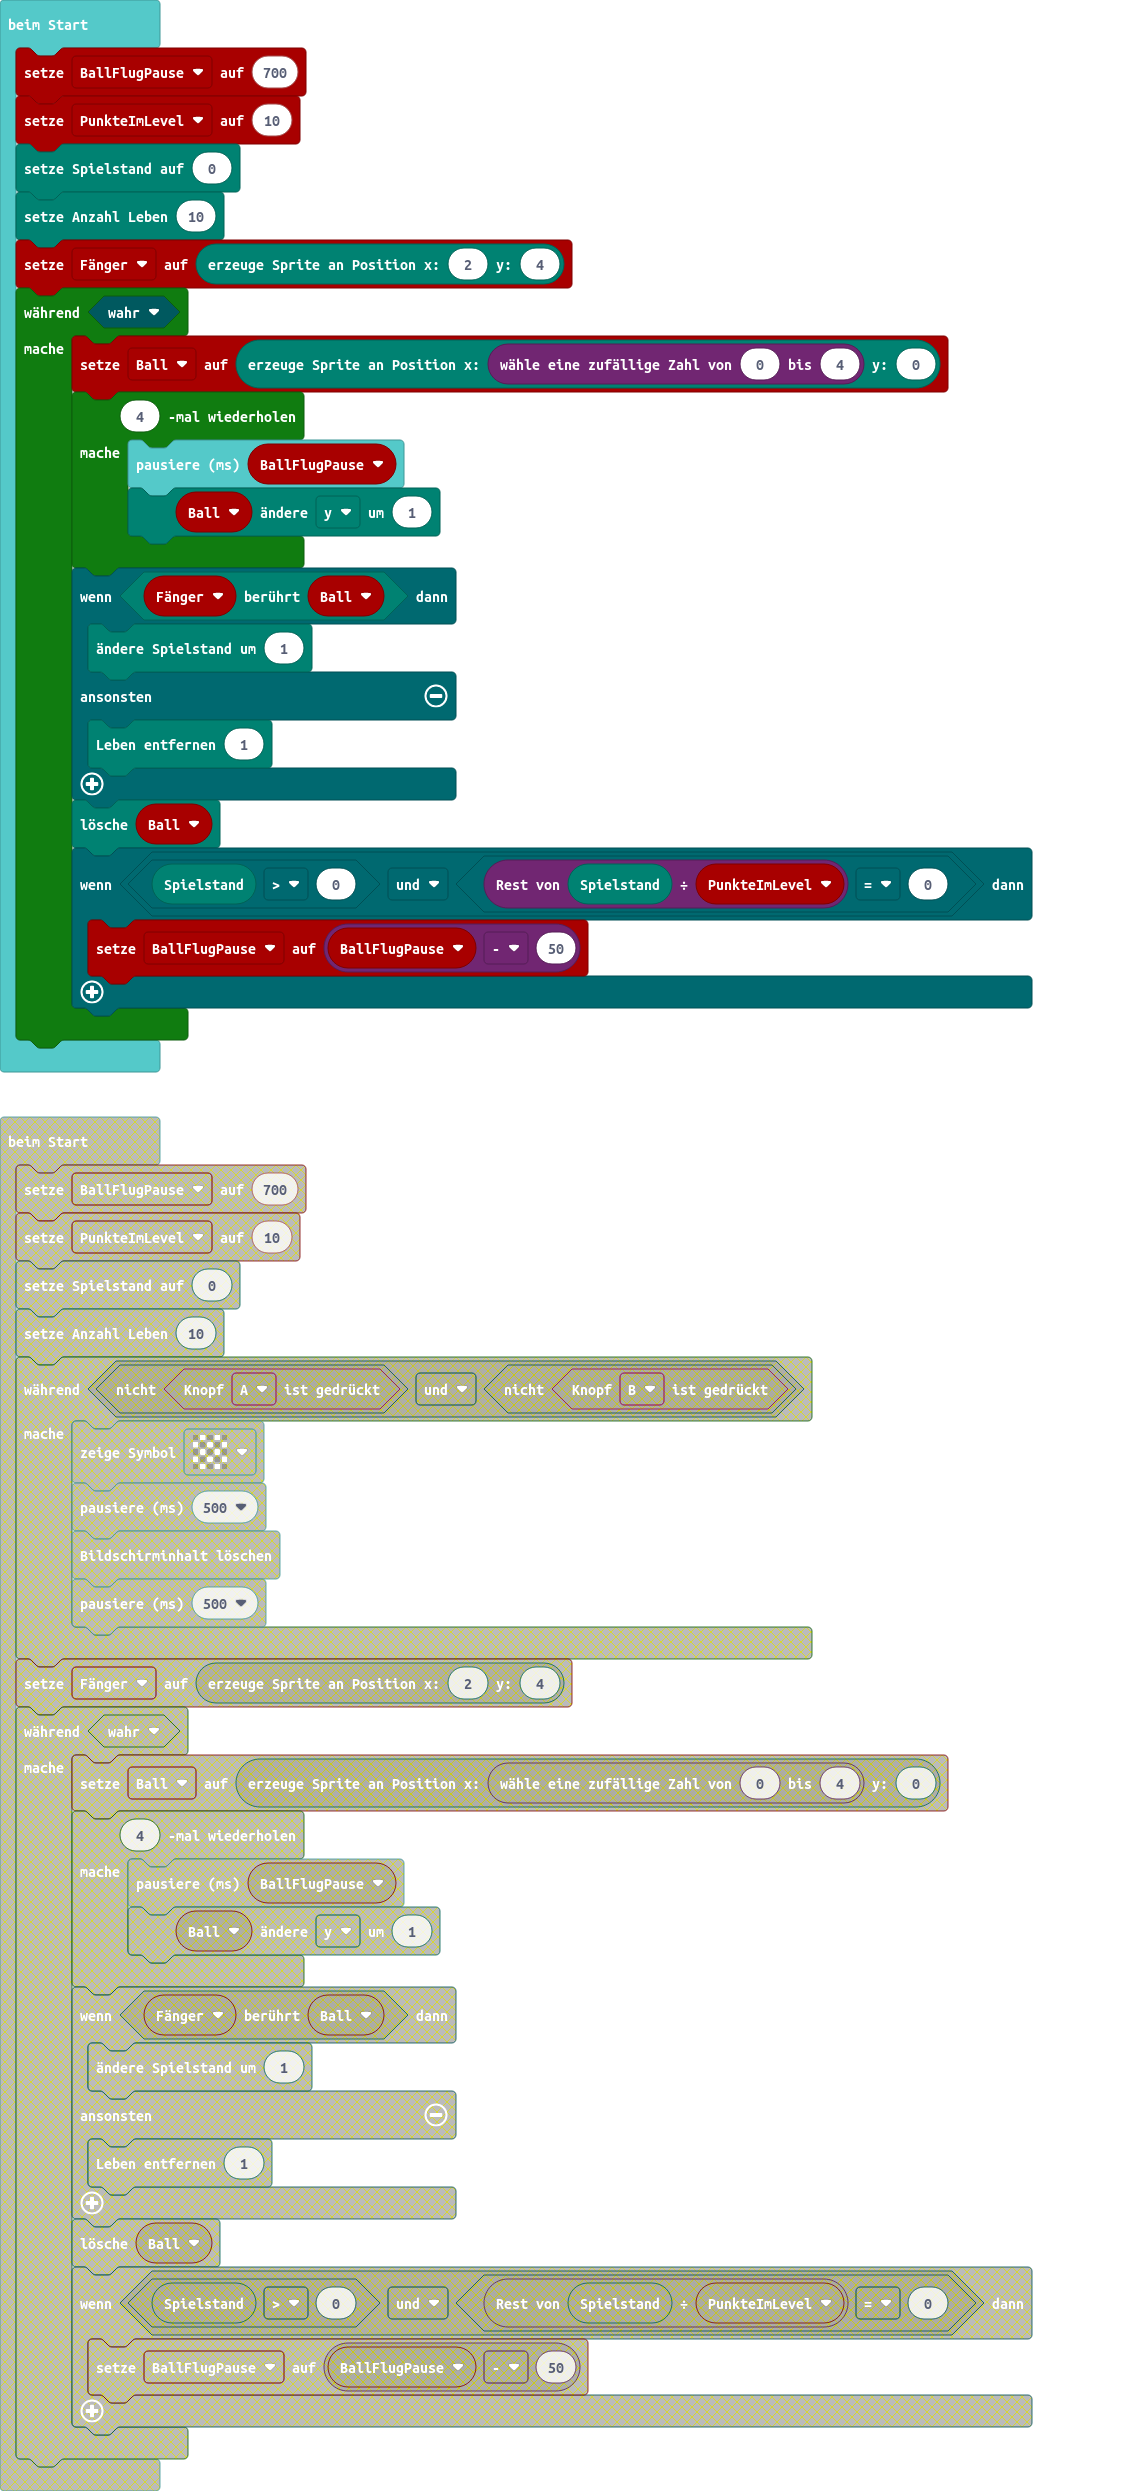
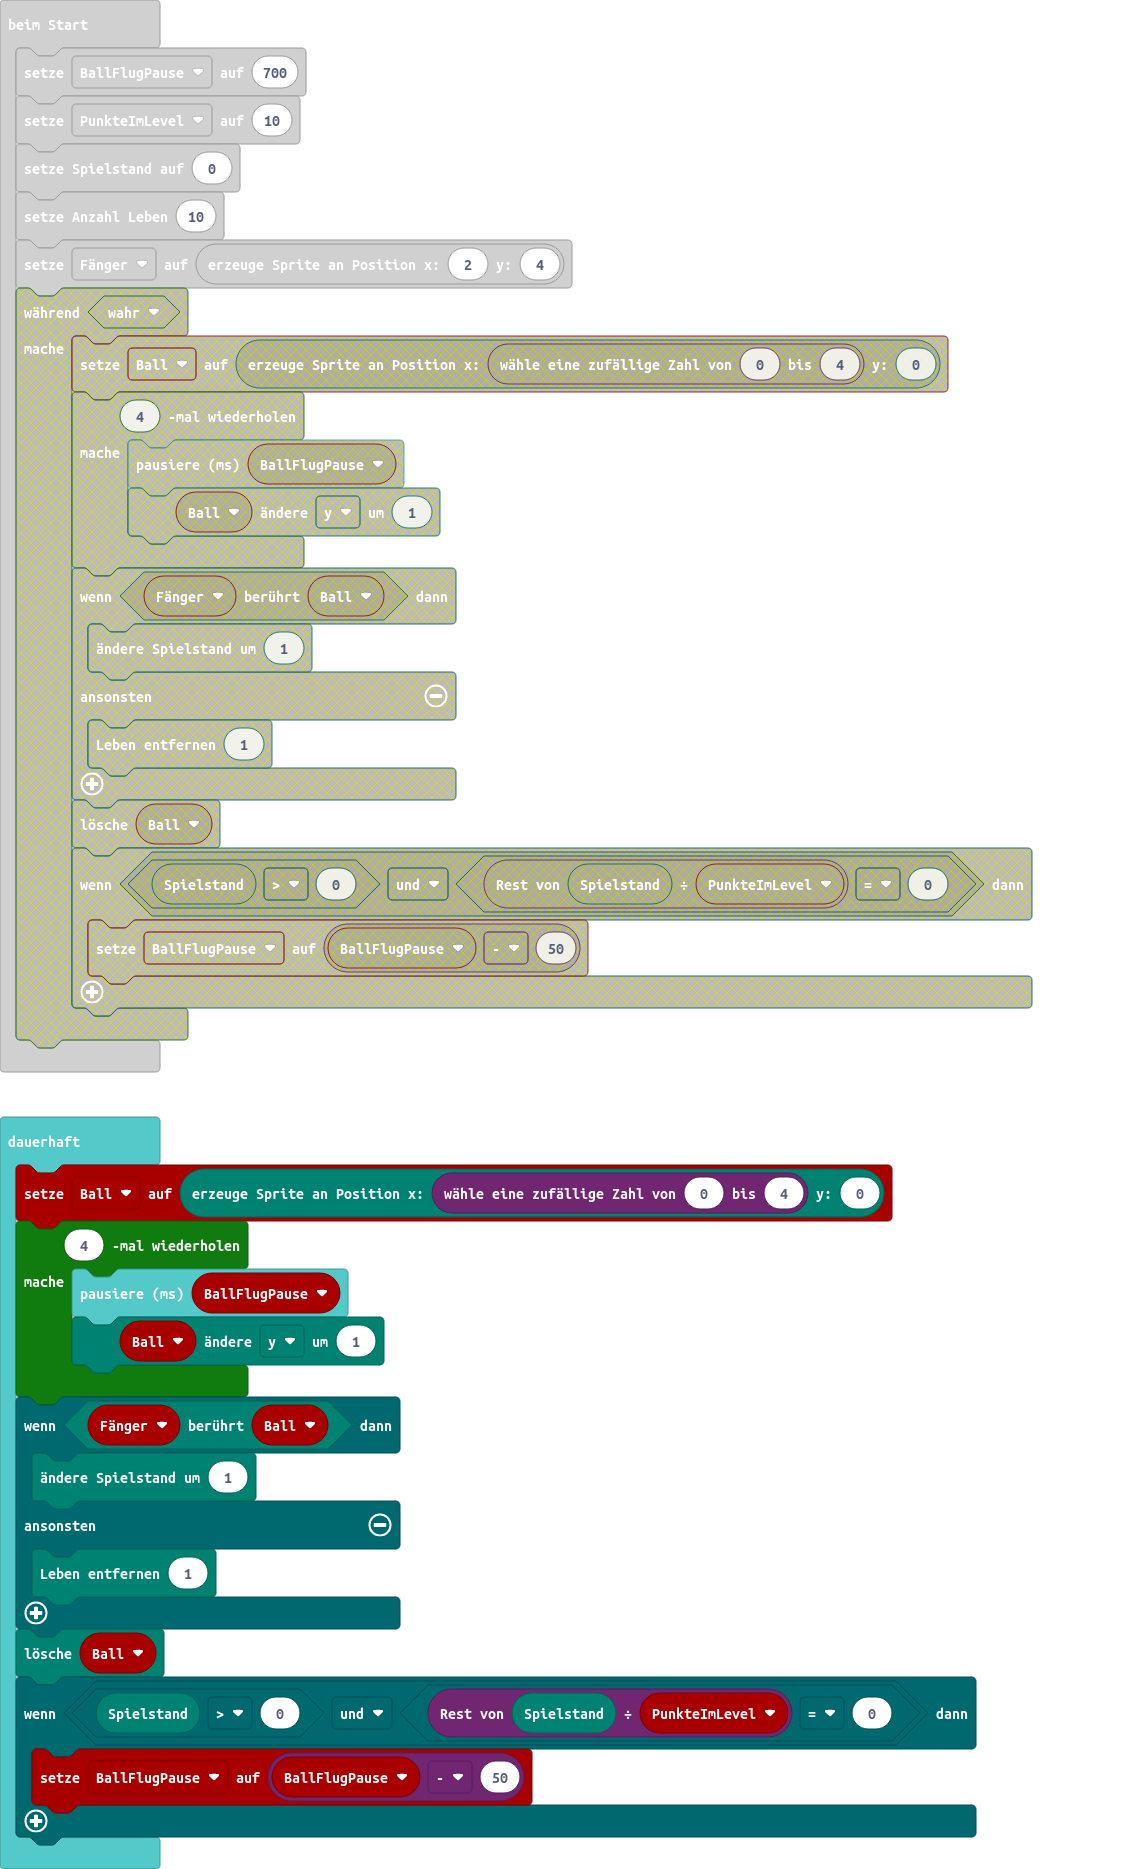
Aktualisiere pxt.json, main.blocks, main.ts

diff --git a/main.ts b/main.ts
@@ -11,7 +11,7 @@ let PunkteImLevel = 10
 game.setScore(0)
 game.setLife(10)
 Fänger = game.createSprite(2, 4)
-while (true) {
+basic.forever(function () {
     Ball = game.createSprite(randint(0, 4), 0)
     for (let index = 0; index < 4; index++) {
         basic.pause(BallFlugPause)
@@ -26,4 +26,4 @@ while (true) {
     if (game.score() > 0 && game.score() % PunkteImLevel == 0) {
         BallFlugPause = BallFlugPause - 50
     }
-}
+})
